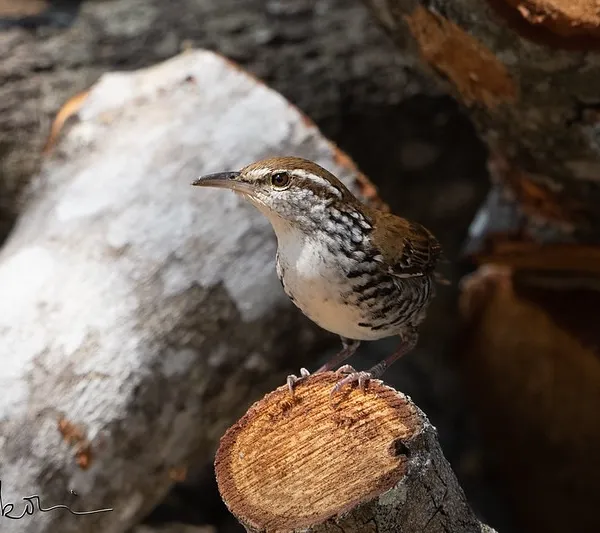
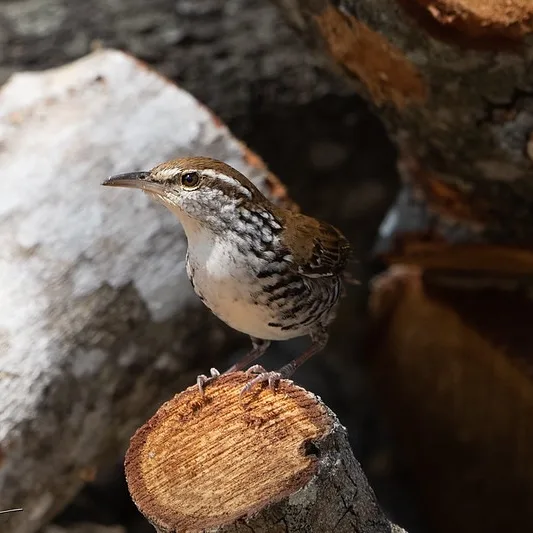
Fix the strip crops, and clear the last of the Zyro leftovers
The Russet-crowned Motmot's crown was cut off by the square crop, so it goes.
In its place a Pink-headed Warbler - a different, better frame than the hero's,
and five of Sergio's six were sitting unused. Showing that bird twice is
deliberate: it is the one in the logo, and the genus the company is named for.

Two of the nine strip crops were not square at all. The variant generator
resizes withoutEnlargement, so any source smaller than 600px in one dimension
never got cropped to square - it just came out at its own aspect and quietly
broke the contract the -sq name implies. The Bearded Screech-Owl was 427x600
and the Banded Wren 600x533. Both are regenerated as true squares from the
originals, placed by hand rather than centred, which also crops the
photographers' signatures out of frame.

Palenque's gallery still had two images served from assets.zyrosite.com, and
that file now returns 404 - it has been a broken image on the live site. The
entry is dropped; the shot immediately after it already showed the same thing.

Also removes an AI-upscaled Keel-billed Toucan carrying a visible
"Let's Enhance .io" watermark, and captions the Red-capped Manakin that sat
beside it. Both were shipping with the literal text CAPTION NEEDED. Nothing on
the site now points at Zyro, and no placeholder captions remain.

diff --git a/src/lib/data/home.ts b/src/lib/data/home.ts
@@ -119,9 +119,10 @@ export const elevationBands = [
 
 // Three cards, three strip images each. At five apiece the photos became 70px
 // slivers once the grid went to three columns, and no bird survives that.
-// None of these nine birds appears anywhere else on the page: the headliners
-// above already carry Rose-bellied Bunting, Horned Guan and Resplendent Quetzal,
-// and the hero is a Pink-headed Warbler.
+// None of these nine photographs appears anywhere else on the page. The
+// Pink-headed Warbler is deliberately the exception: it is the bird in the logo
+// and the genus the company is named after, and this is a different, better
+// frame than the hero's — five of Sergio's six were sitting unused.
 export const tripTeasers = [
 	{
 		title: 'Day tours',
@@ -131,7 +132,7 @@ export const tripTeasers = [
 		strip: [
 			{ src: strip('belted-flycatcher-great-photo-iZzV6wprekrFaMzq.jpg'), alt: 'Belted Flycatcher' },
 			{ src: strip('screech-owl-dOq8VPoBxgFQDKM9.jpg'), alt: 'Bearded Screech-Owl' },
-			{ src: strip('russet-crowned-motmot-AR0MD0JLlJi4JGXO.jpg'), alt: 'Russet-crowned Motmot' }
+			{ src: strip('pink-headed-warbler-1-aLtT3eAXkiqtjRWh.jpg'), alt: 'Pink-headed Warbler' }
 		]
 	},
 	{

diff --git a/src/lib/data/tourDetails.ts b/src/lib/data/tourDetails.ts
@@ -239,22 +239,10 @@ export const tourDetails: TourDetail[] = [
 				"caption": "Collared Aracari"
 			},
 			{
-				"thumb": asset("images/1759259147357-y4lpxjkeznsokokp_le_upscale_prime_light_ai_30-hgUZlMUOwH9ViYgB-md.webp"),
-				"full": asset("images/1759259147357-y4lpxjkeznsokokp_le_upscale_prime_light_ai_30-hgUZlMUOwH9ViYgB-full.webp"),
-				"alt": "CAPTION NEEDED",
-				"caption": "CAPTION NEEDED"
-			},
-			{
 				"thumb": asset("images/1759259147499-YNqMPaEaERHeMOG8-md.webp"),
 				"full": asset("images/1759259147499-YNqMPaEaERHeMOG8-full.webp"),
-				"alt": "CAPTION NEEDED",
-				"caption": "CAPTION NEEDED"
-			},
-			{
-				"thumb": "https://assets.zyrosite.com/cdn-cgi/image/format=auto,w=800/YofU1cddTQzjoQ8J/41751345475_fa342e6d51_o-dWxBW1pRzgC491eY.jpg",
-				"full": "https://assets.zyrosite.com/cdn-cgi/image/format=auto,w=1600/YofU1cddTQzjoQ8J/41751345475_fa342e6d51_o-dWxBW1pRzgC491eY.jpg",
-				"alt": "In the forest at Palenque",
-				"caption": "In the forest at Palenque"
+				"alt": "Red-capped Manakin",
+				"caption": "Red-capped Manakin"
 			},
 			{
 				"thumb": asset("images/palenq-Yle4qa7Q10t5Q9gk-md.webp"),
